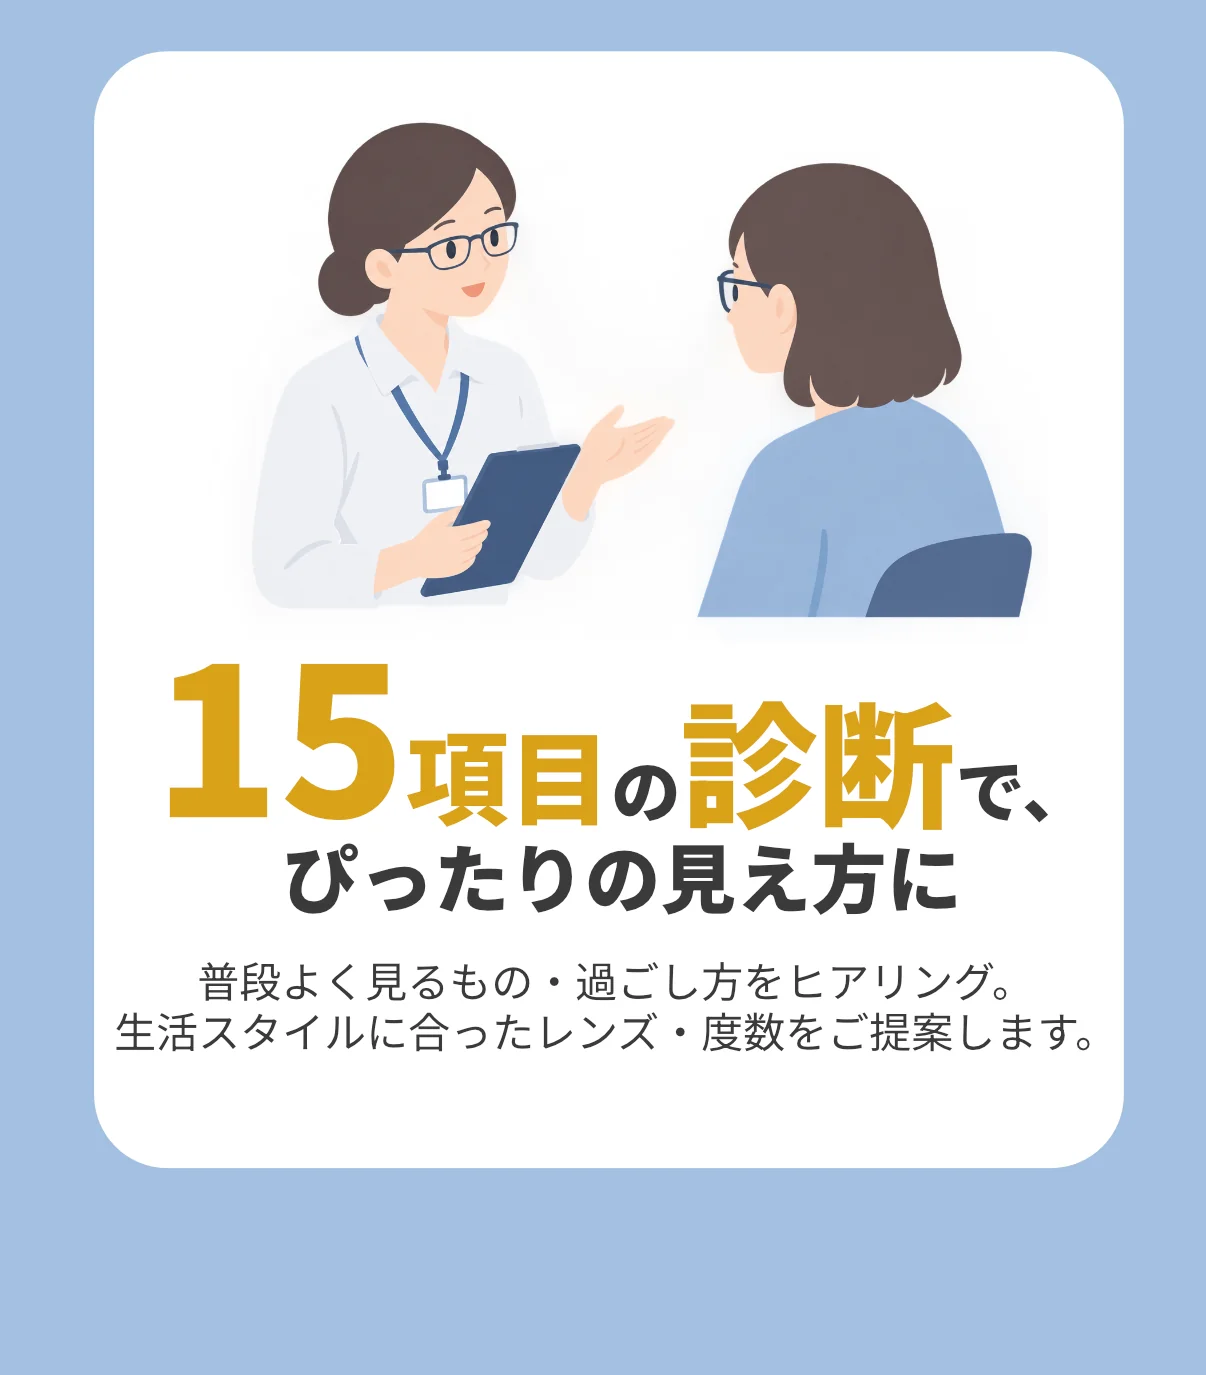
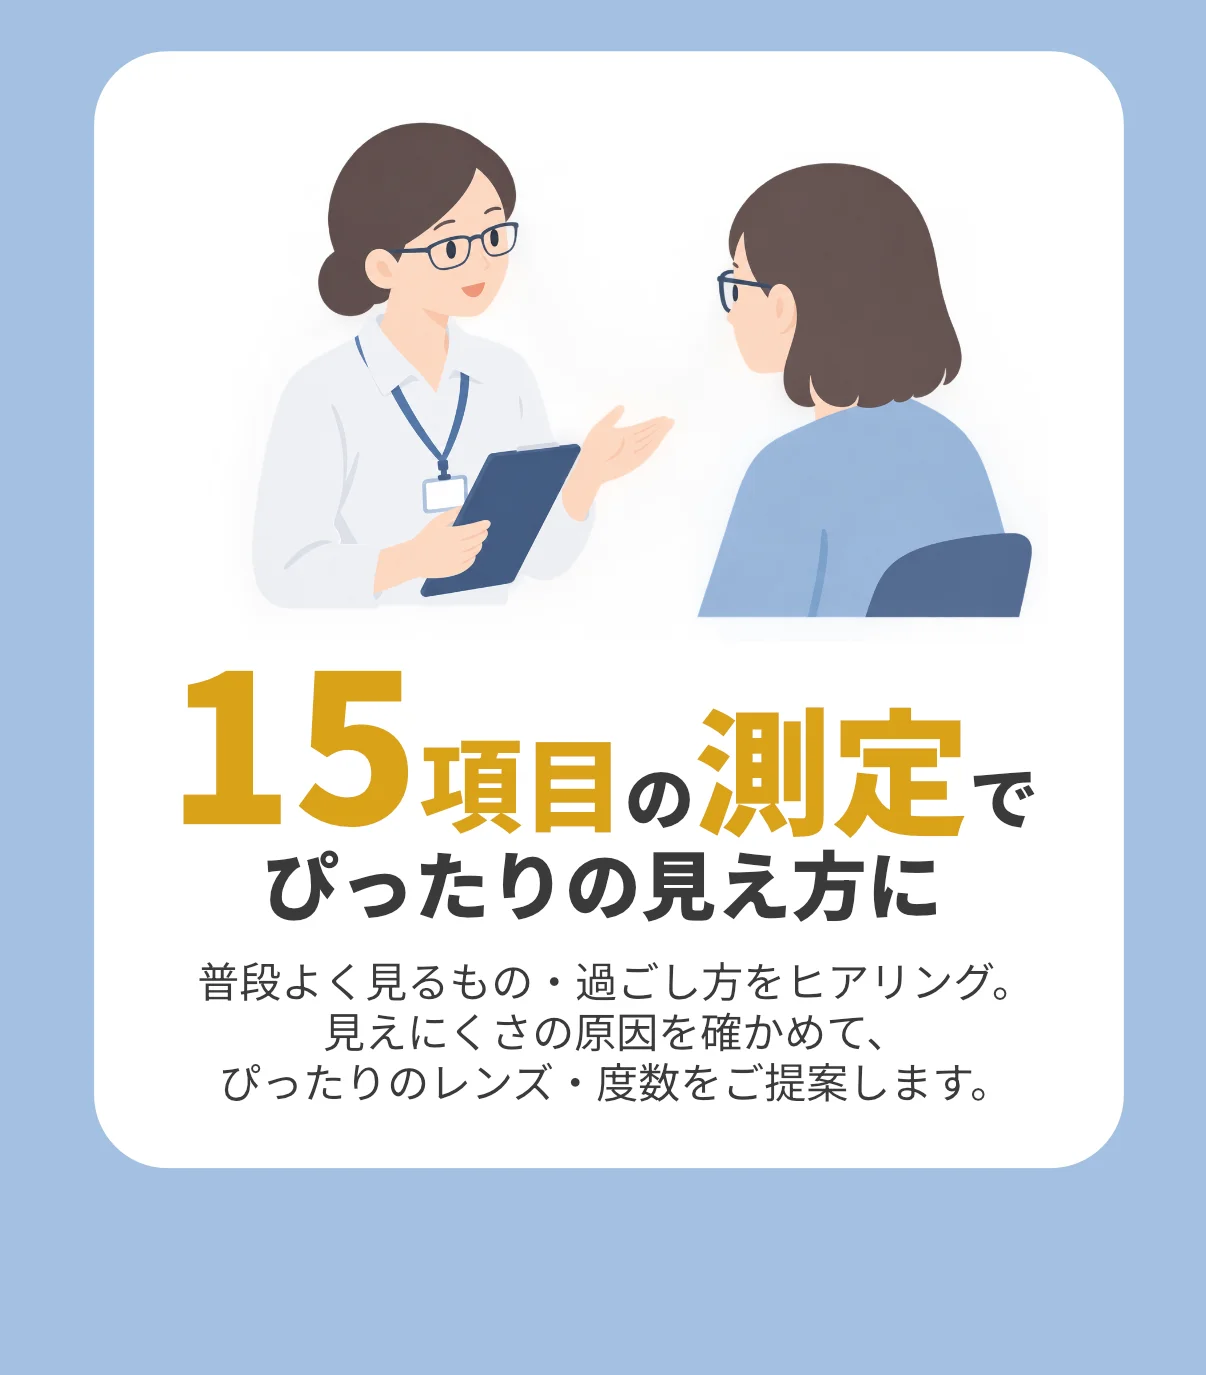
悩みカード3: 診断→測定、本文を「見えにくさの原因を確かめて、ぴったりのレンズ・度数をご提案」に差し替え

Changed region(s): [[0.1227, 0.4582, 0.859, 0.672], [0.092, 0.7331, 0.8897, 0.8247]]

diff --git a/index.html b/index.html
@@ -1260,7 +1260,7 @@
         <img loading="lazy" decoding="async" class="reveal" src="img/nayami-3-q.webp" width="1206" height="1326" alt="スマホや新聞など、小さい文字が見にくい">
         <img loading="lazy" decoding="async" class="nayami-arrow" src="img/nayami-3-arrow.webp" width="1206" height="142" alt="">
         <img loading="lazy" decoding="async" class="reveal" src="img/nayami-3-label.webp" width="1206" height="157" alt="アイメガネなら">
-        <img loading="lazy" decoding="async" class="nayami-answer" src="img/nayami-3-a.webp" width="1206" height="1375" alt="15項目の測定で、ぴったりの見え方に。普段よく見るもの・過ごし方をヒアリング。生活スタイルに合ったレンズ・度数をご提案します。">
+        <img loading="lazy" decoding="async" class="nayami-answer" src="img/nayami-3-a.webp" width="1206" height="1375" alt="15項目の測定でぴったりの見え方に。普段よく見るもの・過ごし方をヒアリング。見えにくさの原因を確かめて、ぴったりのレンズ・度数をご提案します。">
         <a href="https://www.aimegane.com/aboutus/gijutsu/#measurement-15" target="_blank" rel="noopener" class="nayami-more reveal" data-track="gijutsu_link" data-cta-location="gijutsu_link">15項目の測定とは<span class="nayami-more-arrow" aria-hidden="true"></span></a>
       </div>
     </section>

diff --git a/wp-deploy/page-lp-shitadori2026.php b/wp-deploy/page-lp-shitadori2026.php
@@ -1209,7 +1209,7 @@ $lp_assets = get_stylesheet_directory_uri() . '/lp/assets/shitadori2026/img';
         <img loading="lazy" decoding="async" class="reveal" src="<?php echo $lp_assets; ?>/nayami-3-q.webp?v=78907482" width="1206" height="1326" alt="スマホや新聞など、小さい文字が見にくい">
         <img loading="lazy" decoding="async" class="nayami-arrow" src="<?php echo $lp_assets; ?>/nayami-3-arrow.webp?v=e07177e4" width="1206" height="142" alt="">
         <img loading="lazy" decoding="async" class="reveal" src="<?php echo $lp_assets; ?>/nayami-3-label.webp?v=14550339" width="1206" height="157" alt="アイメガネなら">
-        <img loading="lazy" decoding="async" class="nayami-answer" src="<?php echo $lp_assets; ?>/nayami-3-a.webp?v=b7299742" width="1206" height="1375" alt="15項目の測定で、ぴったりの見え方に。普段よく見るもの・過ごし方をヒアリング。生活スタイルに合ったレンズ・度数をご提案します。">
+        <img loading="lazy" decoding="async" class="nayami-answer" src="<?php echo $lp_assets; ?>/nayami-3-a.webp?v=5fb6c2df" width="1206" height="1375" alt="15項目の測定でぴったりの見え方に。普段よく見るもの・過ごし方をヒアリング。見えにくさの原因を確かめて、ぴったりのレンズ・度数をご提案します。">
         <a href="https://www.aimegane.com/aboutus/gijutsu/#measurement-15" target="_blank" rel="noopener" class="nayami-more reveal" data-track="gijutsu_link" data-cta-location="gijutsu_link">15項目の測定とは<span class="nayami-more-arrow" aria-hidden="true"></span></a>
       </div>
     </section>
